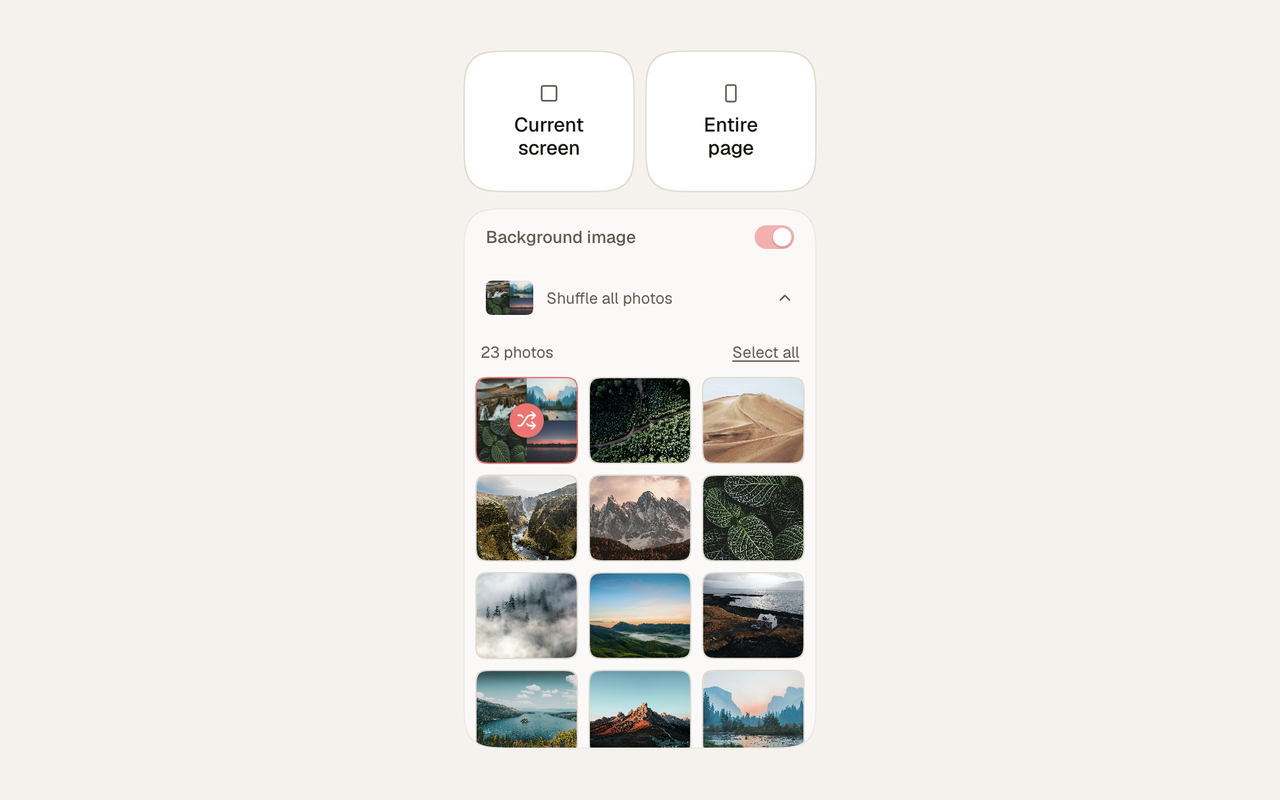
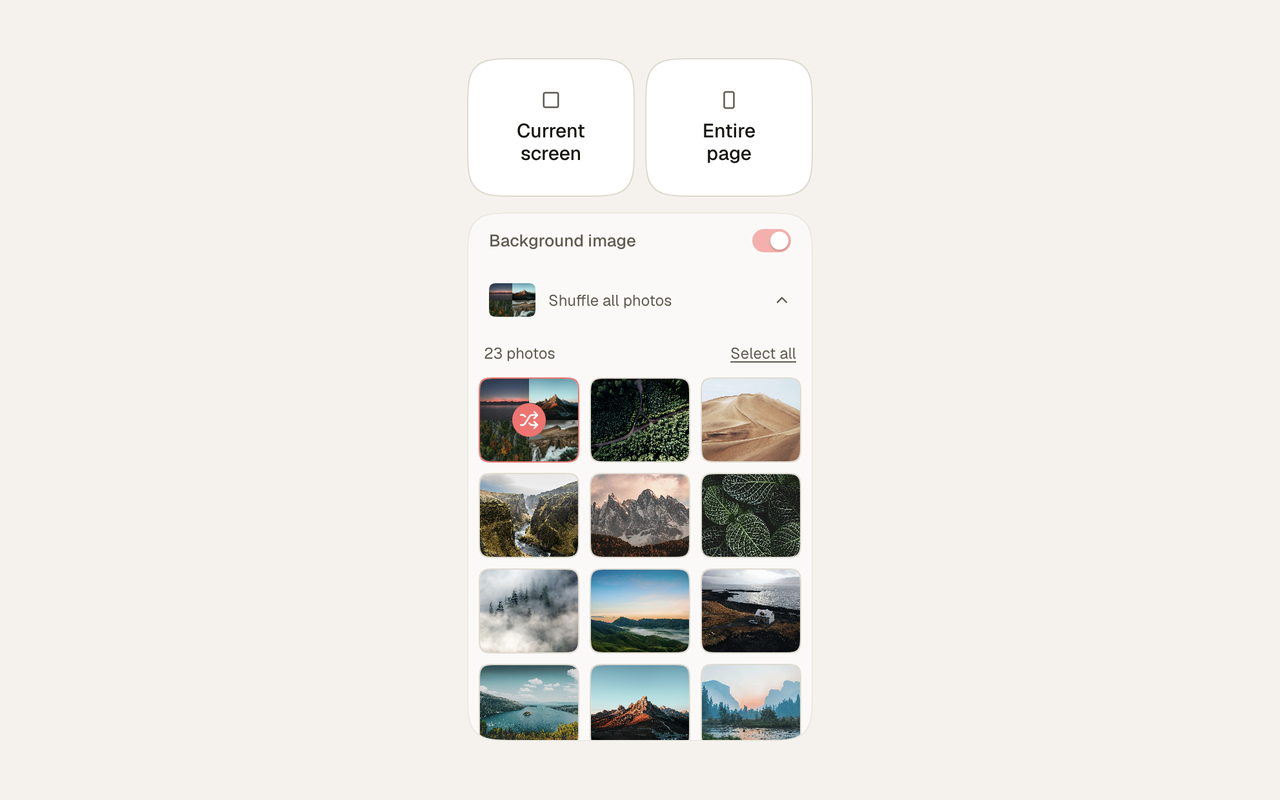
docs: enhance README.md with new popup screenshots and descriptions
- Updated README.md to include additional screenshots showcasing the toolbar popup in both light and dark modes.
- Revised alt text for images to provide clearer descriptions of the popup states.
- Added new binary screenshot files for the closed and open states of the popup in dark mode.

diff --git a/README.md b/README.md
@@ -9,7 +9,19 @@
 [Install from the Chrome Web Store](https://chromewebstore.google.com/detail/backdrop-%E2%80%94-screenshots-wo/omeobpnjkmohdoeikgpfnfiipemidflk)
 
 <p align="center">
-  <img src="screenshots/popup.png" alt="The toolbar popup: Current screen, Entire page, and the background picker open on Shuffle all" width="296" />
+  <img src="screenshots/popup-closed.png" alt="The toolbar popup closed: Current screen, Entire page, and Shuffle all photos" width="296" />
+</p>
+
+<p align="center">
+  <img src="screenshots/popup.png" alt="The same popup with the background picker open" width="296" />
+</p>
+
+<p align="center">
+  <img src="screenshots/popup-closed-dark.png" alt="The toolbar popup in dark mode, closed" width="296" />
+</p>
+
+<p align="center">
+  <img src="screenshots/popup-dark.png" alt="The same popup in dark mode with the background picker open" width="296" />
 </p>
 
 ## Install (unpacked)
